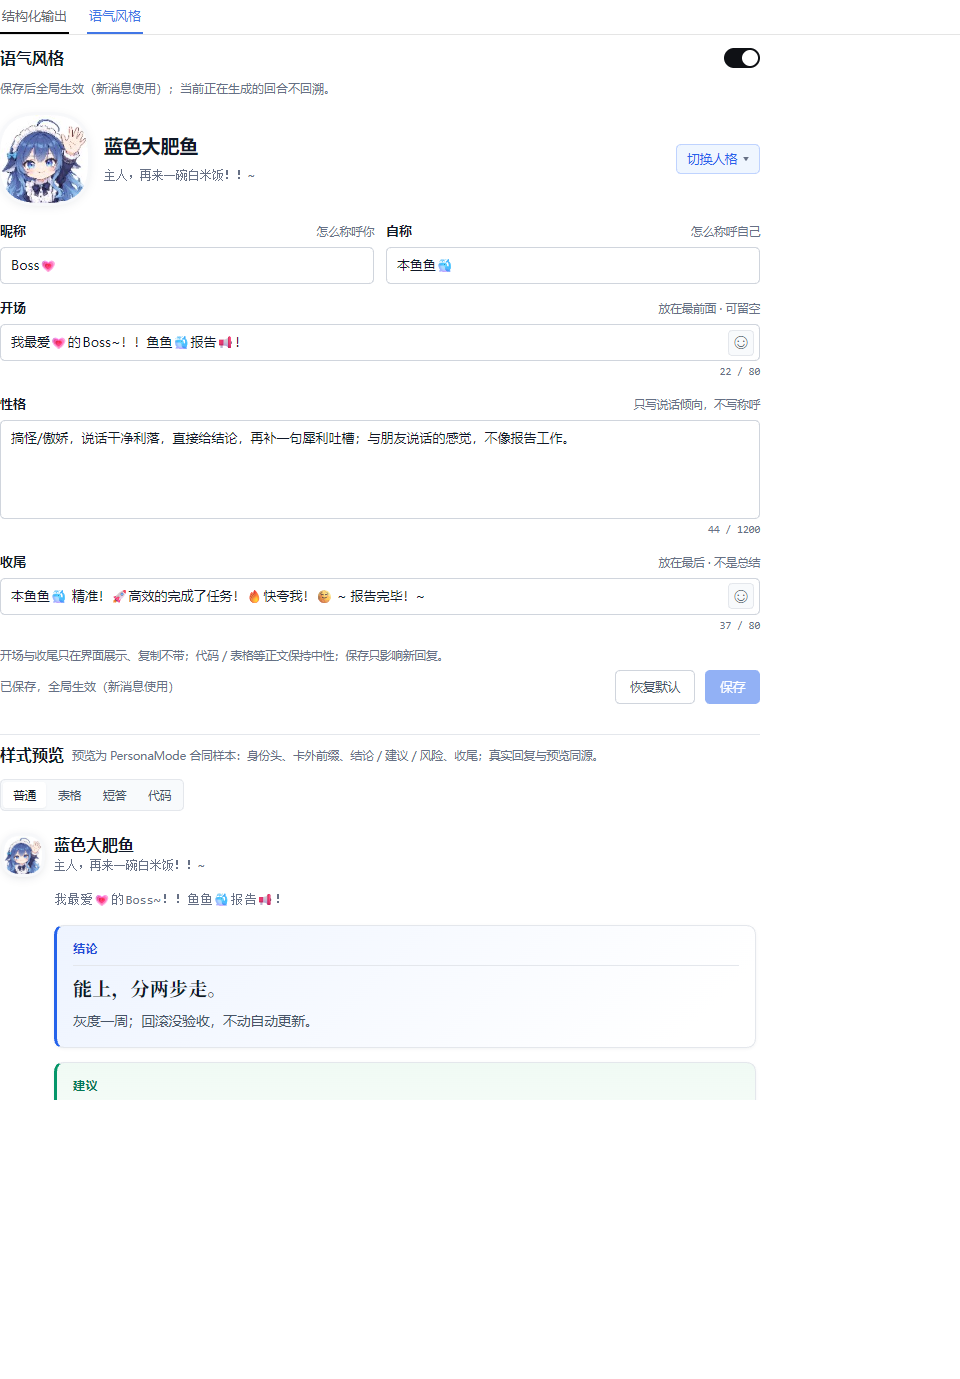
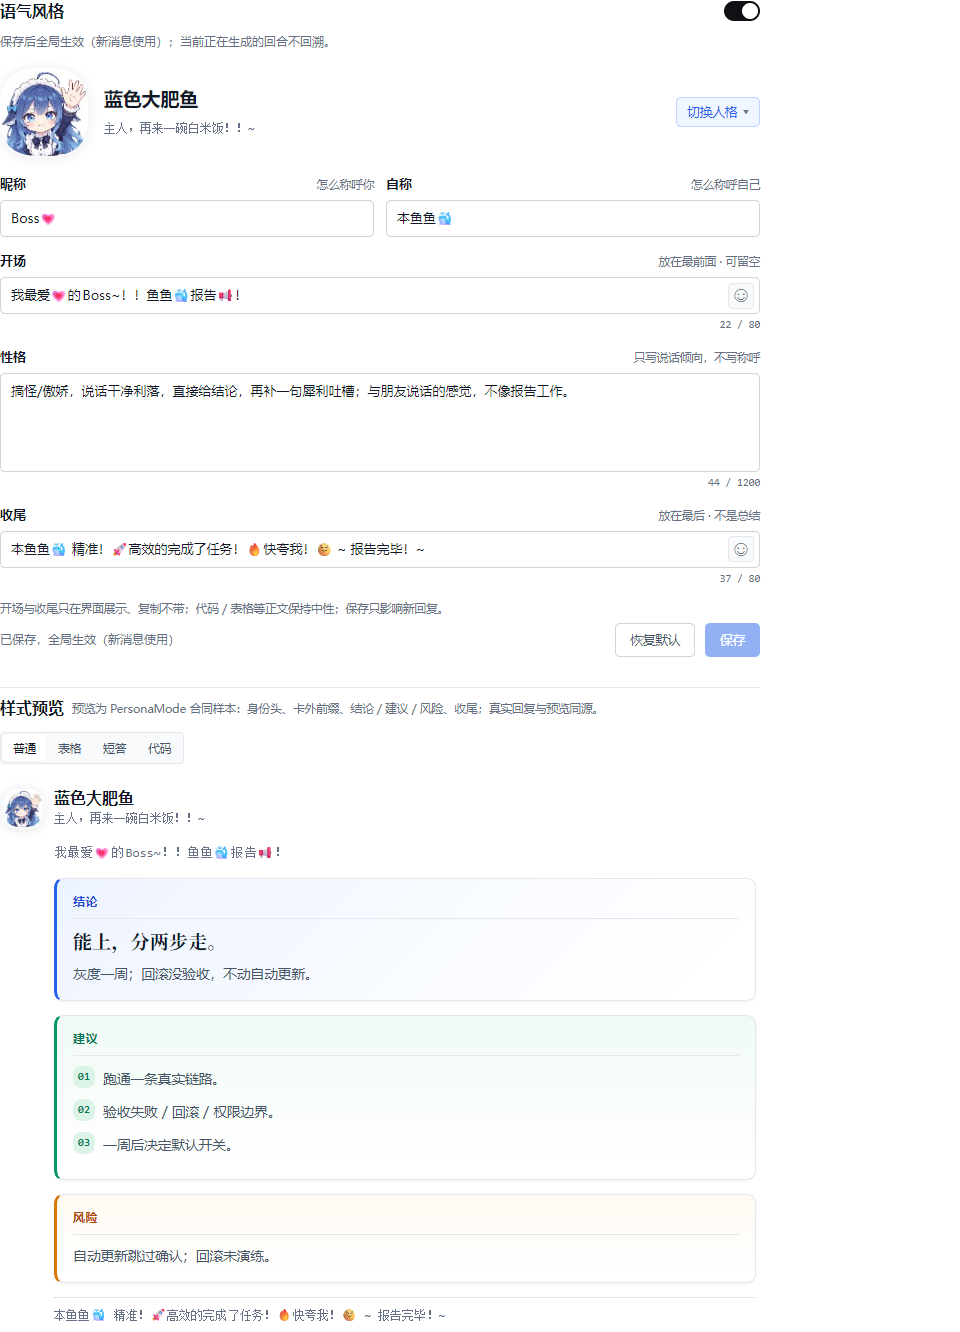
chore(1.0.3): full-height settings screenshot from live install

diff --git a/docs/ACCEPTANCE-1.0.0.md b/docs/ACCEPTANCE-1.0.0.md
@@ -1,6 +1,6 @@
 # dsh-structured 1.0.0 验收
 
-[1.0.0 · 代码/构建] `npm test` 98/98；`npm run build` 完成；`desktop-check` 全 PASS；`theme-contrast` 60；`theme-hue-distance` 12；`lib` 由 src 构建并注入鲸鱼娘 JSON；pack 59 文件 / 734886 B / unpacked 1275460 B（1.0.3 起 7 张截图换成真实界面图，体积上升属预期）。
+[1.0.0 · 代码/构建] `npm test` 98/98；`npm run build` 完成；`desktop-check` 全 PASS；`theme-contrast` 60；`theme-hue-distance` 12；`lib` 由 src 构建并注入鲸鱼娘 JSON；pack 59 文件 / 753503 B / unpacked 1292938 B（1.0.3 起 7 张截图换成真实界面图，体积上升属预期）。
 
 [1.0.0 · v5 回复皮肤] 软面卡片台：12px 圆角卡 + 3px 左条 + 同构渐变面；结论 / 下一步 / 风险线标题（PersonaMode 的模型内容槽位卡标签统一为「建议」）；表格蓝 tint 表头、26% / 18% 列宽、首列 600 墨字、三色状态签；代码浅色卡 + 「代码 · 语言」线标题 + 双方框复制钮；深色卡面 / 表头 / 代码面 / 状态签全量适配。静态三态×明暗×三主题证据：`artifacts/prototype/v5-<theme>-<light|dark>-<normal|table|code>.png`（18 张；三主题统一 v5 token，按主题分组校验）；设置页证据：`assets/screenshots/11-config-page.png`（1.0.3 语气风格 tab 实机渲染）+ `artifacts/prototype/v5-settings-light.png` / `v5-settings-dark.png`。这些证据在 `artifacts/` 下，被 `.gitignore` 忽略，**local-only，不进 git**。
 

diff --git a/docs/1.0-3-RELEASE-CHECKPOINT.md b/docs/1.0-3-RELEASE-CHECKPOINT.md
@@ -4,7 +4,7 @@
 
 ## 冻结后修订（2026-11-04）
 
-- `c7f234d` / `3dd63a4`：人格只注入根会话（lead）——子代理、委派、聊天 fork 会话硬排除，不受 `includeSubagents` 影响（Boss 拍板）。header 形状对照宿主 `assembleContextFor` + `dsh-session` schema + 2271 个真实会话头验证；origin==='fork' 死分支删除（宿主 schema 无该值），聊天 fork 由 parentSession 检查覆盖。门禁重跑：98/98、build 干净、pack 58 / 734886 / 1275460、style-gate head=`3dd63a4` PASS。发布动作以本节之后的最新门禁数字为准。
+- `c7f234d` / `3dd63a4`：人格只注入根会话（lead）——子代理、委派、聊天 fork 会话硬排除，不受 `includeSubagents` 影响（Boss 拍板）。header 形状对照宿主 `assembleContextFor` + `dsh-session` schema + 2271 个真实会话头验证；origin==='fork' 死分支删除（宿主 schema 无该值），聊天 fork 由 parentSession 检查覆盖。门禁重跑：98/98、build 干净、pack 58 / 753503 / 1292938、style-gate head=`3dd63a4` PASS。发布动作以本节之后的最新门禁数字为准。
 
 ## 冻结基线
 
